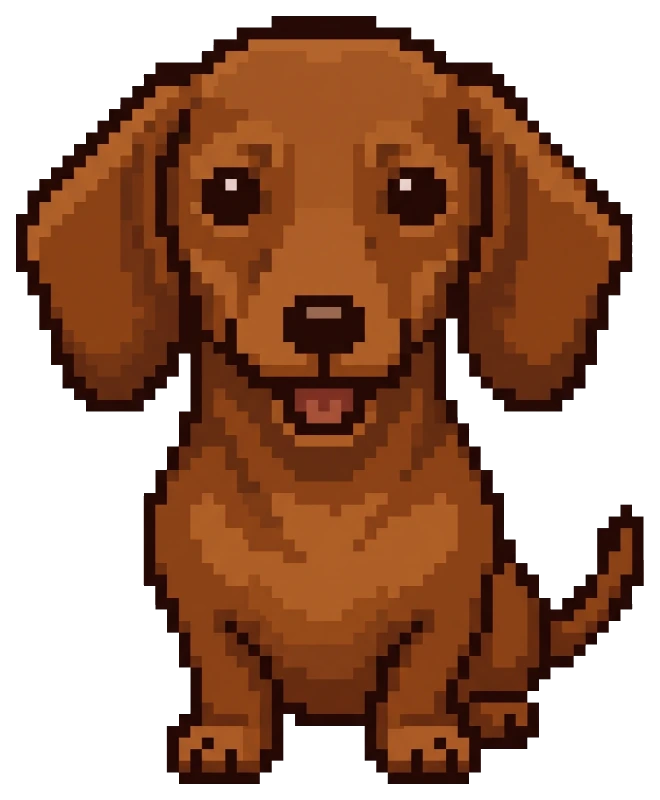
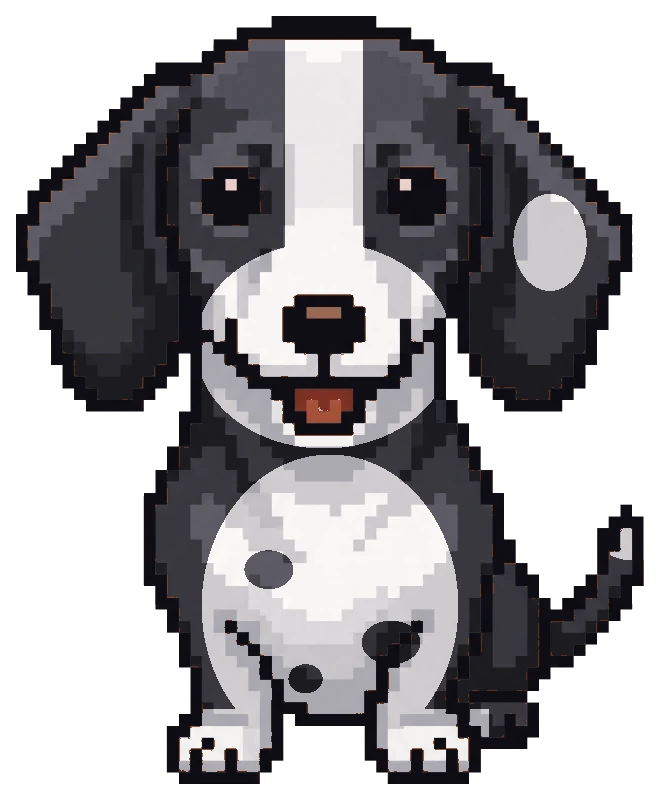
[도트 강아지] 닥스훈트를 검정·흰 얼룩으로
- _dev/dachs-piebald.py: 갈색 털을 명암 그대로 흰 칸(이마 줄·주둥이·가슴·앞발)·검정으로, 가슴 검은 점, 혀는 그대로
- 점 그림·큰 그림 같은 무늬, 예전 그림은 sian-ref/dot-dogs-old
- azit-room.js 털색 #3a3a40, 그림 주소 ?v=2, azit-room.js ?v=16

Claude-Session: https://claude.ai/code/session_01D364GF868k3HTded8WiX4b

diff --git a/azit-room.js b/azit-room.js
@@ -20,7 +20,7 @@
     { id: 'maltese',   breed: '말티즈',   fur: '#e8e6df', sizes: 's' },
     { id: 'knit',      breed: '파란 니트', fur: '',        sizes: '' },    // 니트를 입은 그림이라 대신 보여 주기엔 안 씀(고르기만)
     { id: 'chihuahua', breed: '치와와',   fur: '#d6a874', sizes: 's' },
-    { id: 'dachs',     breed: '닥스훈트', fur: '#8a4a1c', sizes: 'sm' },
+    { id: 'dachs',     breed: '닥스훈트', fur: '#3a3a40', sizes: 'sm' },   // 11/27 검정·흰 얼룩으로 다시 칠함(_dev/dachs-piebald.py) — 털색 맞추기도 짙은 색 쪽
     { id: 'jindo',     breed: '진돗개',   fur: '#f0e6d6', sizes: 'ml' },
     { id: 'shiba',     breed: '시바',     fur: '#e2a464', sizes: 'ml' }
   ];
@@ -507,7 +507,7 @@
     guessDog: guessDog, dogFromBreed: dogFromBreed, myDog: myDog,
     loadState: loadState, saveState: saveState, unlockedItems: unlockedItems, placedItems: placedItems, accOn: accOn,
     snapshot: snapshot, mySnapshot: mySnapshot, parseRoom: parseRoom, todayKey: todayKey,
-    dogSrc: function (id) { return 'icons/dot-dogs/' + id + '.webp?v=1'; },
-    dogPxSrc: function (id) { return 'icons/dot-dogs/px/' + id + '.png?v=1'; }   // 원래 점 격자 그대로(점 하나 = 한 픽셀) — _dev/dot-dog-native.py
+    dogSrc: function (id) { return 'icons/dot-dogs/' + id + '.webp?v=2'; },
+    dogPxSrc: function (id) { return 'icons/dot-dogs/px/' + id + '.png?v=2'; }   // 원래 점 격자 그대로(점 하나 = 한 픽셀) — _dev/dot-dog-native.py
   };
 })();

diff --git a/constellation-sian.html b/constellation-sian.html
@@ -114,7 +114,7 @@
 <script src="store.js?v=2"></script>
 <script src="site-config.js?v=12"></script>
 <script src="canvas-view.js?v=1"></script>
-<script src="azit-room.js?v=15"></script>
+<script src="azit-room.js?v=16"></script>
 <link rel="stylesheet" href="theme-black.css?v=3"><script src="theme.js?v=15"></script>
 </head>
 <body>
@@ -326,7 +326,7 @@
     if (sprites[id]) { if (sprites[id].complete && sprites[id].naturalWidth) cb(); else sprites[id].addEventListener('load', cb); return; }
     var im = new Image(); im.decoding = 'async';
     im.onload = function () { ghosts[id] = null; cb(); };
-    im.src = 'icons/dot-dogs/px/' + id + '.png?v=1';
+    im.src = 'icons/dot-dogs/px/' + id + '.png?v=2';
     sprites[id] = im;
   }
   function ghostOf(id) {
@@ -672,7 +672,7 @@
 
   // 강아지 고르기 · 이름
   $('dogs').innerHTML = DOG_IDS.map(function (id) {
-    return '<button type="button" data-id="' + id + '" aria-pressed="' + (id === S.dog) + '"><img src="icons/dot-dogs/px/' + id + '.png?v=1" alt="">' + BREED[id] + '</button>';
+    return '<button type="button" data-id="' + id + '" aria-pressed="' + (id === S.dog) + '"><img src="icons/dot-dogs/px/' + id + '.png?v=2" alt="">' + BREED[id] + '</button>';
   }).join('');
   $('dogs').addEventListener('click', function (e) {
     var b = e.target.closest('button'); if (!b) return;

diff --git a/dex.html b/dex.html
@@ -144,7 +144,7 @@
 <!-- 화면 QR에 싣는 내 아지트 방 모습(2026-11-23 개방명록 2단계) — 산책 기록으로 생긴 소품을 세려고 reward-rules.js(앞에 spots-data.js)까지 -->
 <script src="spots-data.js"></script>
 <script src="reward-rules.js?v=12"></script>
-<script src="azit-room.js?v=15"></script>
+<script src="azit-room.js?v=16"></script>
 <!-- 사용 통계(2026-11-23 개방명록 1단계): 도감에 넣은 횟수를 QR 종류(화면·키링·지난 캡처)와 처음인지만으로 센다 — 강아지 이름·번호는 안 보냄 -->
 <script src="site-config.js?v=11"></script>
 <script src="inapp.js?v=5"></script>

diff --git a/mini-dog-sample.html b/mini-dog-sample.html
@@ -97,7 +97,7 @@
       { id: 'jindo', breed: '진돗개' },
       { id: 'shiba', breed: '시바' }
     ];
-    function src(d) { return 'icons/dot-dogs/' + d.id + '.webp?v=1'; }
+    function src(d) { return 'icons/dot-dogs/' + d.id + '.webp?v=2'; }
     function $(id) { return document.getElementById(id); }
     var cur = DOGS[0], chips = [], frame = 0, tick = 0;
 

diff --git a/azit.html b/azit.html
@@ -367,7 +367,7 @@
 <script src="spots-data.js"></script>
 <script src="reward-rules.js?v=12"></script>
 <script src="dex-card.js?v=6"></script>
-<script src="azit-room.js?v=15"></script>
+<script src="azit-room.js?v=16"></script>
 <script src="photo-dot.js?v=2"></script>
 <script src="friends-cloud.js?v=1"></script>
 <script>

diff --git a/_dev/dachs-piebald.py b/_dev/dachs-piebald.py
@@ -1,0 +1,56 @@
+# 닥스훈트 도트 강아지를 검정·흰 얼룩(파이볼드)으로 (2026-11-27 가르시아 "닥스훈트는 검은 흰색이 얼룩지게 해줘")
+#
+# 갈색 털만 바꾼다 — 혀는 그대로, 테두리·눈·코의 갈색빛은 같은 어둡기의 무채색으로. 털의 밝고 어두움(명암)은 그대로 두고 색만:
+#   흰 칸(이마 가운데 줄·주둥이·가슴·앞발·꼬리 끝) = 흰~옅은 회색, 그 밖(귀·눈 둘레·등·옆구리·꼬리) = 검정~짙은 회색,
+#   흰 칸 안에 작은 검은 점 몇 개(얼룩). 칸은 점 그림(54×66) 좌표로 정하고, 큰 그림(660×800)은 같은 비율로 써서 두 그림이 같은 무늬.
+# 예전 갈색 그림은 sian-ref/dot-dogs-old에 보관. 쓰는 법(pip pillow numpy): python3 _dev/dachs-piebald.py
+import os, numpy as np
+from PIL import Image
+
+ROOT = os.path.join(os.path.dirname(os.path.abspath(__file__)), "..")
+SRC = {"px": os.path.join(ROOT, "sian-ref/dot-dogs-old/dachs-px-brown.png"), "big": os.path.join(ROOT, "sian-ref/dot-dogs-old/dachs-brown.webp")}
+DST = {"px": os.path.join(ROOT, "icons/dot-dogs/px/dachs.png"), "big": os.path.join(ROOT, "icons/dot-dogs/dachs.webp")}
+PW, PH = 54, 66   # 점 그림 크기 — 무늬 좌표 기준
+
+def ell(x, y, cx, cy, rx, ry):
+    return ((x - cx) / rx) ** 2 + ((y - cy) / ry) ** 2 <= 1
+
+def white_of(x, y):
+    """점 그림 좌표(실수)에서 흰 칸인지"""
+    w = (np.abs(x - 26.5) <= 3.2) & (y >= 2) & (y <= 24)            # 이마 가운데 흰 줄(블레이즈)
+    w |= ell(x, y, 26.5, 28.5, 10.5, 8.5)                            # 주둥이
+    w |= ell(x, y, 27, 50, 10.5, 12.5)                               # 가슴·배
+    w |= (y >= 58.5) & (x <= 40)                                      # 앞발
+    w |= ell(x, y, 51.5, 43, 3.2, 3.2)                                # 꼬리 끝
+    w |= ell(x, y, 45, 20, 3.0, 4.0)                                  # 오른쪽 귀 흰 얼룩
+    dots = [(22, 47, 2.0, 1.6), (32, 53, 2.4, 1.8), (25, 56, 1.4, 1.2)]   # 흰 칸 안 검은 점
+    for cx, cy, rx, ry in dots:
+        w &= ~ell(x, y, cx, cy, rx, ry)
+    return w
+
+def recolor(im):
+    a = np.asarray(im.convert("RGBA")).astype(float)
+    H, W = a.shape[:2]
+    rgb = a[..., :3]; r, g, b = rgb[..., 0], rgb[..., 1], rgb[..., 2]
+    lum = 0.3 * r + 0.59 * g + 0.11 * b
+    fur = (a[..., 3] > 0) & (r > g + 18) & (g > b + 8) & (lum > 52) & ~(b > 0.6 * g)   # 갈색 털 — 혀·코 반짝이(파랑이 초록에 가까운 붉은색)·테두리는 빼고
+    ys, xs = np.mgrid[0:H, 0:W]
+    x = (xs + 0.5) * PW / W; y = (ys + 0.5) * PH / H
+    wh = white_of(x, y)
+    lo, hi = np.percentile(lum[fur], 3), np.percentile(lum[fur], 97)
+    t = np.clip((lum - lo) / max(1, hi - lo), 0, 1)[..., None]
+    black = np.array([26, 26, 30]) + t * (np.array([96, 94, 104]) - np.array([26, 26, 30]))
+    white = np.array([168, 166, 174]) + t * (np.array([252, 250, 248]) - np.array([168, 166, 174]))
+    out = a.copy()
+    out[..., :3] = np.where((fur & wh)[..., None], white, np.where(fur[..., None], black, rgb))
+    dark = (a[..., 3] > 0) & (lum <= 52) & (r > g)                   # 갈색빛 테두리·눈·코 → 같은 어둡기의 무채색(검은 털과 어울리게)
+    out[dark, :3] = np.stack([lum[dark] * 0.85, lum[dark] * 0.85, lum[dark] * 0.95 + 4], -1)
+    return Image.fromarray(np.clip(out, 0, 255).astype(np.uint8), "RGBA")
+
+for k in ("px", "big"):
+    im = recolor(Image.open(SRC[k]))
+    if k == "px":
+        im.save(DST[k], optimize=True)
+    else:
+        im.save(DST[k], "WEBP", quality=92, method=6)
+    print(k, im.size, "->", os.path.relpath(DST[k], ROOT))

diff --git a/PROJECT_CONTEXT.md b/PROJECT_CONTEXT.md
@@ -3974,3 +3974,11 @@ Black Han Sans 굵게 뭉개짐 0곳. 실제 폰은 아직.
 - 바뀐 그림: `icons/azit-hd/room_{lilac,pink,night}(-1x).webp`, `azit.html` `ROOM_V` 2(예전 그림이 캐시에 남지 않게). 크림 방·소품은 그대로.
 - 시험: 세 벽지로 [아지트] 열기 390폭 — 화면 오류 없음.
 - **배포**: 11/27 가르시아 "배포해" — main `98fe9bd`(다른 세션의 강아지 C 말랑 걸음·산책 캡슐 시안과 합쳐서).
+
+## 닥스훈트 도트 강아지를 검정·흰 얼룩으로 (2026-11-27)
+
+- 가르시아 "닥스훈트는 검은 흰색이 얼룩지게 해줘". `_dev/dachs-piebald.py`: 갈색 털만 명암 그대로 색을 바꿈 — 흰 칸(이마 가운데 줄·주둥이·가슴·앞발·
+  꼬리 끝·오른쪽 귀 얼룩, 가슴에 검은 점 셋) · 그 밖(귀·눈 둘레·등·옆구리·꼬리)은 검정. 혀는 그대로, 갈색빛 테두리·눈·코는 무채색으로.
+  점 그림(`icons/dot-dogs/px/dachs.png`)과 큰 그림(`icons/dot-dogs/dachs.webp`)이 같은 무늬. 예전 갈색 그림은 `sian-ref/dot-dogs-old`.
+- `azit-room.js` 닥스 털색 `#3a3a40`(워킹패스 사진 털색으로 고를 때 짙은 색 쪽), 도트 강아지 주소 `?v=2`, azit-room.js `?v=16`.
+- 시험: 닥스로 [아지트] 열기 — 화면 오류 없음.
